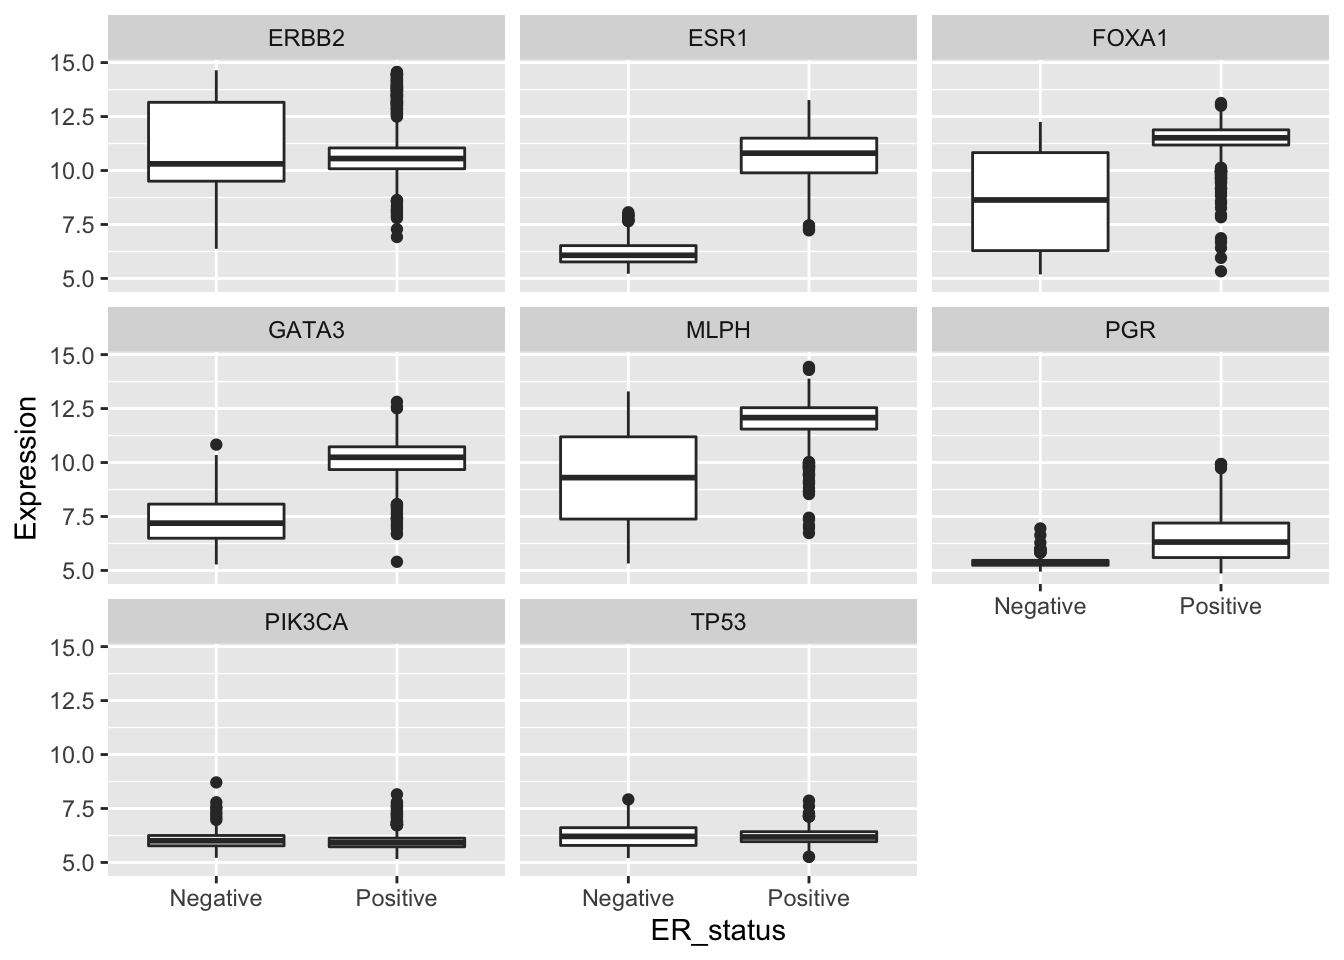
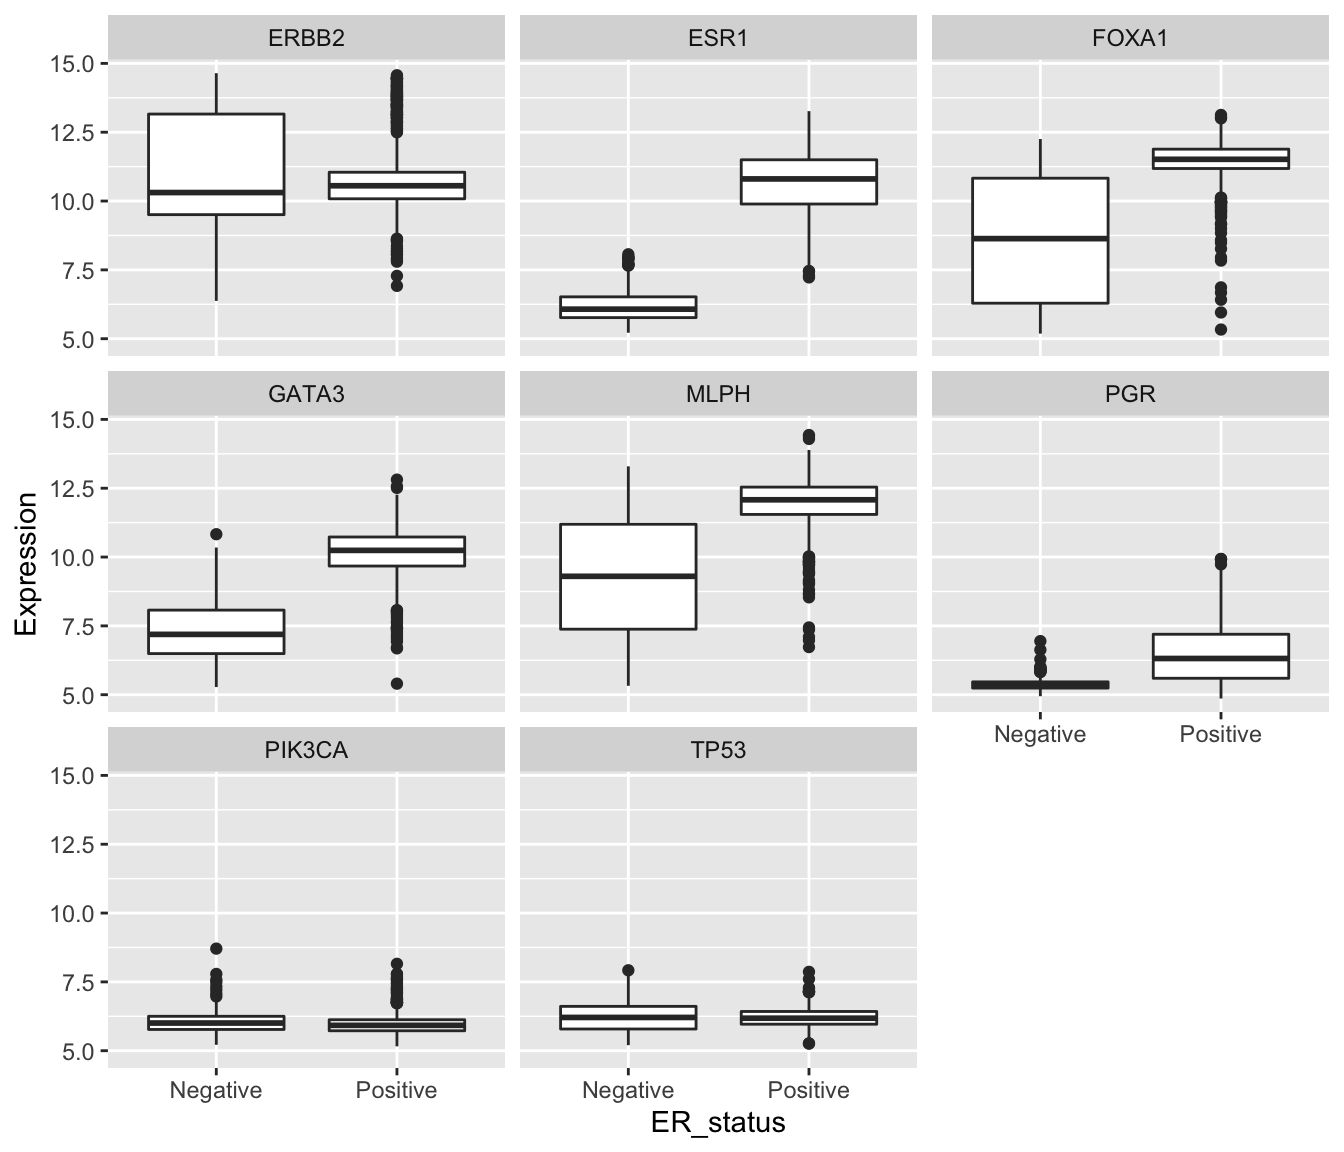
Finished section containing second real example.

diff --git a/docs/week6.html b/docs/week6.html
@@ -671,8 +671,8 @@ mutate(table3_separated, rate = cases / population)</code></pre>
 <hr />
 </div>
 </div>
-<div id="real-example-1-metabric-gene-expression" class="section level1">
-<h1>Real example 1: METABRIC gene expression</h1>
+<div id="example-1-metabric-gene-expression" class="section level1">
+<h1>Example 1: METABRIC gene expression</h1>
 <p>Although tables 1 to 4a and b contain real data they are, of course, ‘toy’ data frames created for demonstration and teaching purposes. We’ll now turn our attention to the METABRIC expression data and see how this needs to be transformed into a tidier format to open up different avenues for exploring the data.</p>
 <p>We’ll first load the table and then select just the columns we’re going to need.</p>
 <pre class="r"><code>metabric &lt;- read_csv(&quot;data/metabric_clinical_and_expression_data.csv&quot;) %&gt;%
@@ -695,7 +695,7 @@ metabric</code></pre>
 <p>When we first looked at visualization using ggplot2 we created the following box plot.</p>
 <pre class="r"><code>ggplot(metabric) +
   geom_boxplot(mapping = aes(x = ER_status, y = GATA3))</code></pre>
-<p><img src="week6_files/figure-html/box_plot_1-1.png" width="672" /></p>
+<p><img src="week6_files/figure-html/box_plot_1-1.png" width="480" /></p>
 <p>But what if we would like to create a series of plots using the faceting functions in ggplot2 with one plot for each gene?</p>
 <p>Faceting requires a categorical variable, which is used to divide the data for each plot. In this case we’d need a gene column, but clearly our data are not structured in this way.</p>
 <p>We have gene names for column headings. Are these variables? Well, maybe, although a more correct name for each of these variables or column headings would be ‘Expression of ESR1’, ‘Expression of ERBB2’, etc.</p>
@@ -734,8 +734,8 @@ metabric</code></pre>
 <p><img src="week6_files/figure-html/scatter_plot_1-1.png" width="672" /></p>
 <hr />
 </div>
-<div id="real-example-2" class="section level1">
-<h1>Real example 2:</h1>
+<div id="example-2-protein-levels-in-mcf-7-after-treatment-with-tamoxifen" class="section level1">
+<h1>Example 2: Protein levels in MCF-7 after treatment with tamoxifen</h1>
 <p>Our second real example features another data set generated by CRUK CI scientists (<a href="https://pubmed.ncbi.nlm.nih.gov/29899353">Papachristou <em>et al.</em>, Nature Communications 9:2311, 2018</a>) in which the dynamics of endogenous chromatin-associated protein complexes were investigated using quantitative mass spectrometry.</p>
 <p>We’ll look at one of several tabular data sets made available as supplementary data which contains the total level of protein in MCF-7 cells at various time points after treatment with the drug tamoxifen. MCF-7 is a breast cancer cell line isolated in 1970 from a 69-year old woman and established for use in breast cancer research by the Michigan Cancer Foundation-7 institute in Detroit. Tamoxifen is a hormone therapy used in the treatment of estrogen receptor-positive breast cancer.</p>
 <p>The table in question is <a href="https://www.ncbi.nlm.nih.gov/pmc/articles/PMC5998130/bin/41467_2018_4619_MOESM11_ESM.xlsx">supplementary data 9</a>.</p>
@@ -757,8 +757,8 @@ select(protein_levels, `Uniprot Accession`, `Gene Name`, ends_with(&quot;rep01&q
 ## 10 P35579           MYH9                 15.7         15.6         15.8
 ## # … with 7,933 more rows, and 1 more variable: tam.24h.rep01 &lt;dbl&gt;</code></pre>
 <p>This has a very similar structure to a gene expression matrix having one row for each protein (or gene) and a column for each sample. We’ve only shown columns for the first of four replicates for each group defined by a treatment and a time point. The control group is the ‘untreated’ group in which the cells are treated with the vehicle (ethanol) alone.</p>
-<p>TODO: explain what we’re trying to achieve, i.e. the end goal</p>
-<p>We’re going to focus on just a few proteins, those whose levels are markedly reduced 24 hours after treatment with tamoxifen compared with the vehicle.</p>
+<p>If we wanted to calculate the mean protein levels within each group, i.e. the average level for the protein measured in the 4 replicates, or we wanted to show the spread of values for the replicates as a box plot, then the data as currently structured is not in the most suitable form. In what follows, we’ll transform the table to allow use to do both these analyses.</p>
+<p>To simplify matters, we’re going to focus on just a few proteins, those whose levels are markedly reduced 24 hours after treatment with tamoxifen compared with the vehicle.</p>
 <pre class="r"><code>protein_levels &lt;- protein_levels %&gt;%
   filter(`log2FC(24h/veh)` &lt; -0.75) %&gt;%
   select(accession = `Uniprot Accession`, gene = `Gene Name`, vehicle.rep01:tam.24h.rep04)
@@ -818,12 +818,11 @@ protein_levels</code></pre>
 <p>
 Join multiple strings into a single string.
 </p>
-<blockquote>
 <p>
-<code>str_c(“R”, “good”, sep = &quot; is “)</code>
+<code>str_c(“tidyverse”, “fab”, sep = &quot; is “)</code>
 </p>
 <p>
-<code>[1] “R is good”</code>
+<code>[1] “tidyverse is fab”</code>
 </p>
 <p>
 <code>str_c(c(“Ashley”, “Matt”), c(“hiking”, “beer”), sep = &quot; loves “)</code>
@@ -831,40 +830,66 @@ Join multiple strings into a single string.
 <p>
 <code>[1] “Ashley loves hiking” “Matt loves beer”</code>
 </p>
-</blockquote>
+<hr />
 <p>
 <strong><code>str_replace(string, pattern, replacement)</code></strong>
 </p>
 <p>
+<strong><code>str_replace_all(string, pattern, replacement)</code></strong>
+</p>
+<p>
 Substitute a matched pattern in a string (or character vector).
 </p>
-<blockquote>
 <p>
-<code>str_replace(“Oscar is the best dog in the world”, “dog”, “cat”)</code>
+<code>str_replace(“Oscar is the best cat in the world”, “best”, “loveliest”)</code>
 </p>
 <p>
-<code>[1] “Oscar is the best cat in the world”</code>
+<code>[1] “Oscar is the loveliest cat in the world”</code>
 </p>
-</blockquote>
+<p>
+<code>str_replace_all(“the cat sat on the mat”, “at”, “AT”)</code>
+</p>
+<p>
+<code>[1] “the cAT sAT on the mAT”</code>
+</p>
+<hr />
+<p>
+<strong><code>str_remove(string, pattern)</code></strong>
+</p>
+<p>
+<strong><code>str_remove_all(string, pattern)</code></strong>
+</p>
+<p>
+Remove matched patterns in a string.
+</p>
+<p>
+Alias for <code>str_replace(string, pattern, “”)</code> and <code>str_replace_all(string, pattern, “”)</code>.
+</p>
+<hr />
 <p>
 <strong><code>str_sub(string, start, end)</code></strong>
 </p>
 <p>
 Extract substrings from a character vector at the given start and end positions.
 </p>
-<blockquote>
 <p>
 <code>str_sub(“Matthew”, start = 1, end = 4)</code>
 </p>
 <p>
 <code>[1] “Matt”</code>
 </p>
-</blockquote>
+<p>
+<code>str_sub(c(“tamoxifen”, “vehicle”), 1, 3)</code>
+</p>
+<p>
+<code>[1] “tam” “veh”</code>
+</p>
 </div>
 <p><code>str_replace()</code> looks like the function we need - let’s see how it works.</p>
 <pre class="r"><code>str_replace(&quot;vehicle.rep01&quot;, &quot;vehicle&quot;, &quot;vehicle.24h&quot;)</code></pre>
 <pre><code>## [1] &quot;vehicle.24h.rep01&quot;</code></pre>
-<p>Looking at the help we can see that, like very many R functions, it works on a vector of character values (or strings), so let’s try this on some of our sample names (the first 10).</p>
+<p>The first argument is the character vector we’re working on, in this case a single character string. The second argument is the pattern or substring we want to replace and the third is the string we want to replace it with.</p>
+<p>Looking at the help we can see that, like very many R functions, it works on a vector of character values (or strings), so let’s try this a few of our sample names (the first 10).</p>
 <pre class="r"><code>str_replace(protein_levels$sample[1:10], &quot;vehicle&quot;, &quot;vehicle.24h&quot;)</code></pre>
 <pre><code>##  [1] &quot;vehicle.24h.rep01&quot; &quot;tam.2h.rep01&quot;      &quot;tam.6h.rep01&quot;     
 ##  [4] &quot;tam.24h.rep01&quot;     &quot;vehicle.24h.rep02&quot; &quot;tam.2h.rep02&quot;     
@@ -904,7 +929,51 @@ protein_levels</code></pre>
 ##  9 Q4ZG55    GREB1 vehicle   24h   rep03             11.0 
 ## 10 Q4ZG55    GREB1 tam       2h    rep03             11.0 
 ## # … with 150 more rows</code></pre>
-<p>The groups we want to compare are in fact the combination of the treatment and the time point. We’ll create a new column called ‘group’ in which we concatenate the two using another <code>stringr</code> function, <code>str_c()</code>. But we’ll also shorten ‘vehicle’ to ‘veh’ so we have similar length treatment labels (‘veh’ and ‘tam’) in the plot we’ll eventually create. For that we’ll use <code>str_sub()</code>.</p>
+<p>The groups we want to compare are in fact the combination of the treatment and the time point. We’ll create a new column called ‘group’ in which we concatenate the treatment and time values using another <code>stringr</code> function, <code>str_c()</code>. But we’ll also shorten ‘vehicle’ to ‘veh’ so we have similar length treatment labels (‘veh’ and ‘tam’) in the plot we’ll eventually create. For that we’ll use <code>str_sub()</code>.</p>
+<pre class="r"><code>protein_levels &lt;- protein_levels %&gt;%
+  mutate(group = str_sub(treatment, 1, 3)) %&gt;%
+  mutate(group = str_c(group, time)) %&gt;%
+  mutate(group = as_factor(group))
+protein_levels</code></pre>
+<pre><code>## # A tibble: 160 x 7
+##    accession gene  treatment time  replicate protein_level group 
+##    &lt;chr&gt;     &lt;chr&gt; &lt;chr&gt;     &lt;chr&gt; &lt;chr&gt;             &lt;dbl&gt; &lt;fct&gt; 
+##  1 Q4ZG55    GREB1 vehicle   24h   rep01             12.1  veh24h
+##  2 Q4ZG55    GREB1 tam       2h    rep01             12    tam2h 
+##  3 Q4ZG55    GREB1 tam       6h    rep01             11.6  tam6h 
+##  4 Q4ZG55    GREB1 tam       24h   rep01              9.78 tam24h
+##  5 Q4ZG55    GREB1 vehicle   24h   rep02             11.3  veh24h
+##  6 Q4ZG55    GREB1 tam       2h    rep02             11.4  tam2h 
+##  7 Q4ZG55    GREB1 tam       6h    rep02             11.1  tam6h 
+##  8 Q4ZG55    GREB1 tam       24h   rep02              8.98 tam24h
+##  9 Q4ZG55    GREB1 vehicle   24h   rep03             11.0  veh24h
+## 10 Q4ZG55    GREB1 tam       2h    rep03             11.0  tam2h 
+## # … with 150 more rows</code></pre>
+<p>Computing the mean protein levels within each group is now very straightforward.</p>
+<pre class="r"><code>protein_levels %&gt;%
+  group_by(gene, group) %&gt;%
+  summarize(protein_level = mean(protein_level))</code></pre>
+<pre><code>## # A tibble: 40 x 3
+## # Groups:   gene [10]
+##    gene  group  protein_level
+##    &lt;chr&gt; &lt;fct&gt;          &lt;dbl&gt;
+##  1 AREG  veh24h         10.6 
+##  2 AREG  tam2h          10.8 
+##  3 AREG  tam6h          10.8 
+##  4 AREG  tam24h          9.29
+##  5 GREB1 veh24h         11.3 
+##  6 GREB1 tam2h          11.3 
+##  7 GREB1 tam6h          10.9 
+##  8 GREB1 tam24h          8.87
+##  9 MGP   veh24h          5.59
+## 10 MGP   tam2h           5.69
+## # … with 30 more rows</code></pre>
+<p>Plotting the protein levels in each group as box plots with each data point overlaid is only slightly more involved. We can use faceting to create separate plots for each of the genes (proteins).</p>
+<pre class="r"><code>ggplot(data = protein_levels, mapping = aes(x = group, y = protein_level)) +
+  geom_boxplot(colour = &quot;grey60&quot;) +
+  geom_jitter(width = 0.15) +
+  facet_wrap(vars(gene), scales = &quot;free_y&quot;, ncol = 3)</code></pre>
+<p><img src="week6_files/figure-html/box_plot_3-1.png" width="672" /></p>
 </div>
 
 
